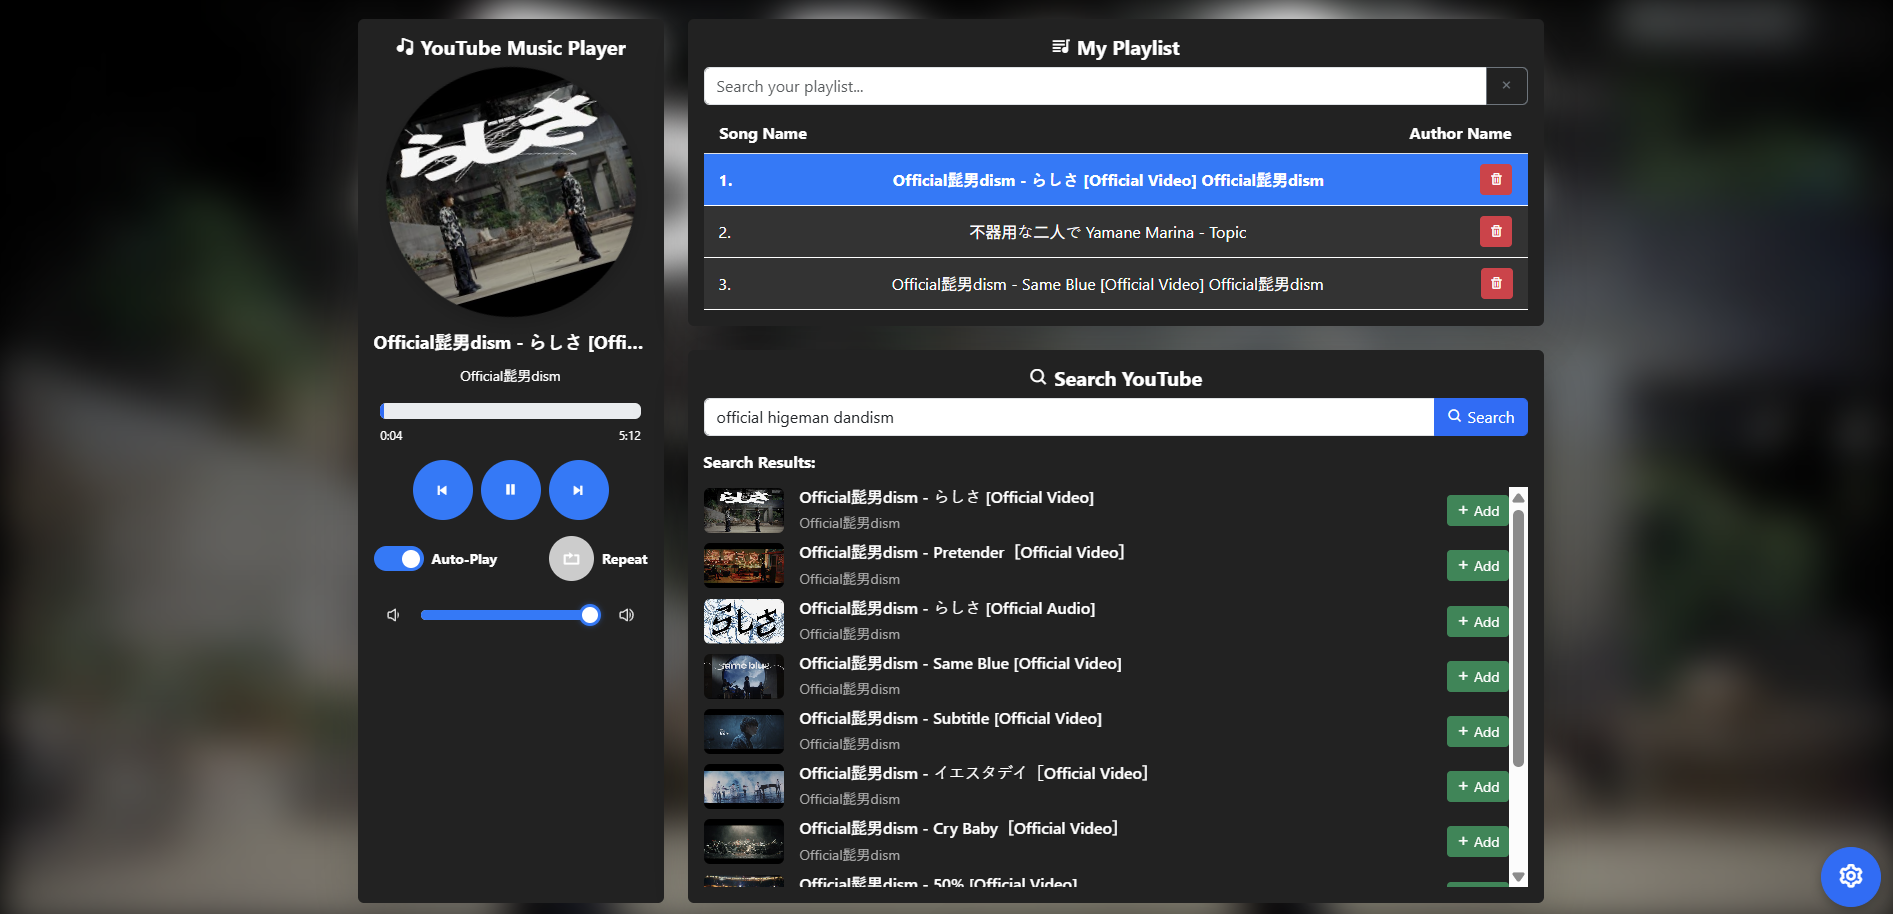
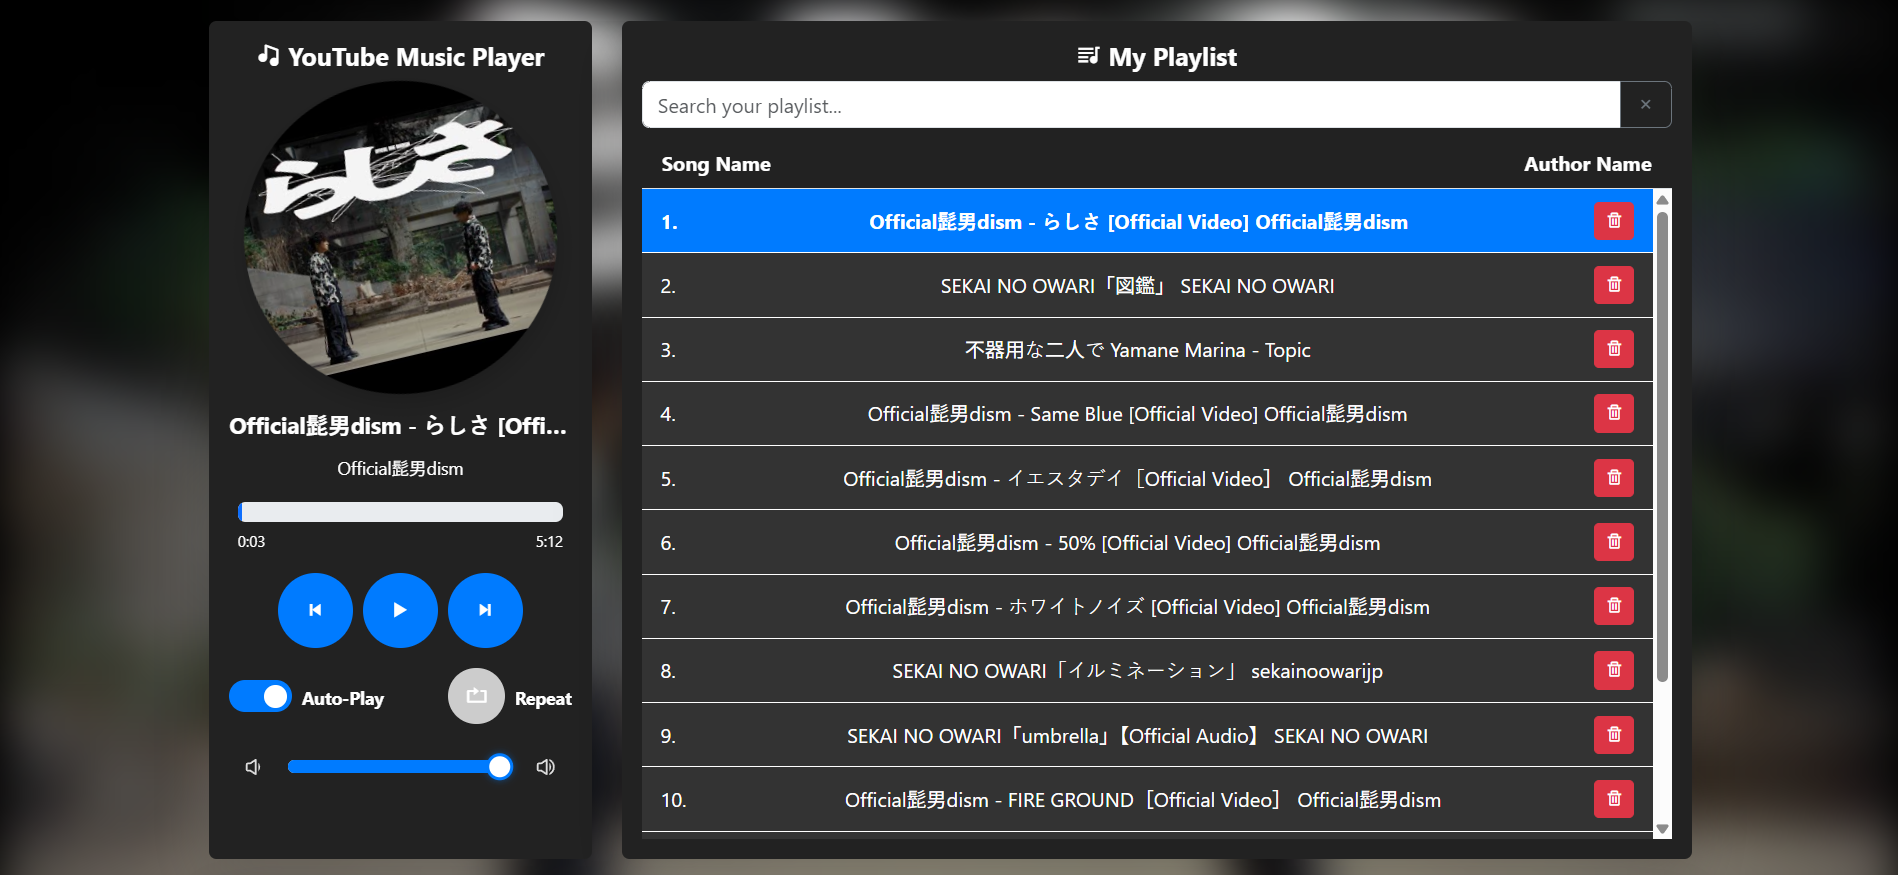
Update README image, .gitignore to include config.js and enhance YouTube search card layout

diff --git a/index.html b/index.html
@@ -105,20 +105,22 @@
             </div>
 
             <!-- Card 3: YouTube Search -->
-            <div class="col-md-8 col-12 mt-4 mt-md-0">
+            <div class="col-md-11 col-12 mt-4 mx-auto">
                 <!-- YouTube Search Section -->
-                <div class="card shadow-lg mt-4">
+                <div class="card shadow-lg">
                     <div class="card-body">
                         <h5 class="card-title text-center fw-bold"><i class='bx bx-search'></i> Search YouTube</h5>
                         
                         <!-- YouTube Search Bar -->
                         <div class="input-group mb-3">
                             <input type="text" id="youtubeSearchInput" class="form-control" placeholder="Search YouTube for songs to add...">
-                            <button class="btn btn-primary" type="button" id="youtubeSearchBtn" title="Search YouTube"><i class='bx bx-search'></i> Search</button>
+                            <button class="btn btn-primary" type="button" id="youtubeSearchBtn" title="Search YouTube">
+                                <i class='bx bx-search'></i> Search
+                            </button>
                         </div>
 
                         <!-- Search Results -->
-                        <div id="searchResults" class="d-none">
+                        <div id="searchResults" class="d-none mt-3">
                             <h6 class="fw-bold mb-3">Search Results:</h6>
                             <div id="searchResultsList" class="overflow-auto" style="max-height: 400px;">
                                 <!-- Search results will be populated here -->
@@ -126,7 +128,7 @@
                         </div>
 
                         <!-- Loading indicator -->
-                        <div id="searchLoading" class="text-center d-none">
+                        <div id="searchLoading" class="text-center d-none mt-3">
                             <div class="spinner-border text-primary" role="status">
                                 <span class="visually-hidden">Searching...</span>
                             </div>
@@ -134,7 +136,7 @@
                         </div>
 
                         <!-- Search error message -->
-                        <div id="searchError" class="alert alert-danger d-none" role="alert">
+                        <div id="searchError" class="alert alert-danger d-none mt-3" role="alert">
                             <i class='bx bx-error'></i> Unable to search YouTube. Please check your internet connection and try again.
                         </div>
                     </div>

diff --git a/README.md b/README.md
@@ -10,6 +10,7 @@
 ![Alt text](resource/image/1.png)
 ![Alt text](resource/image/2.png)
 ![Alt text](resource/image/3.png)
+![Alt text](resource/image/4.png)
 
 ## Information
 
